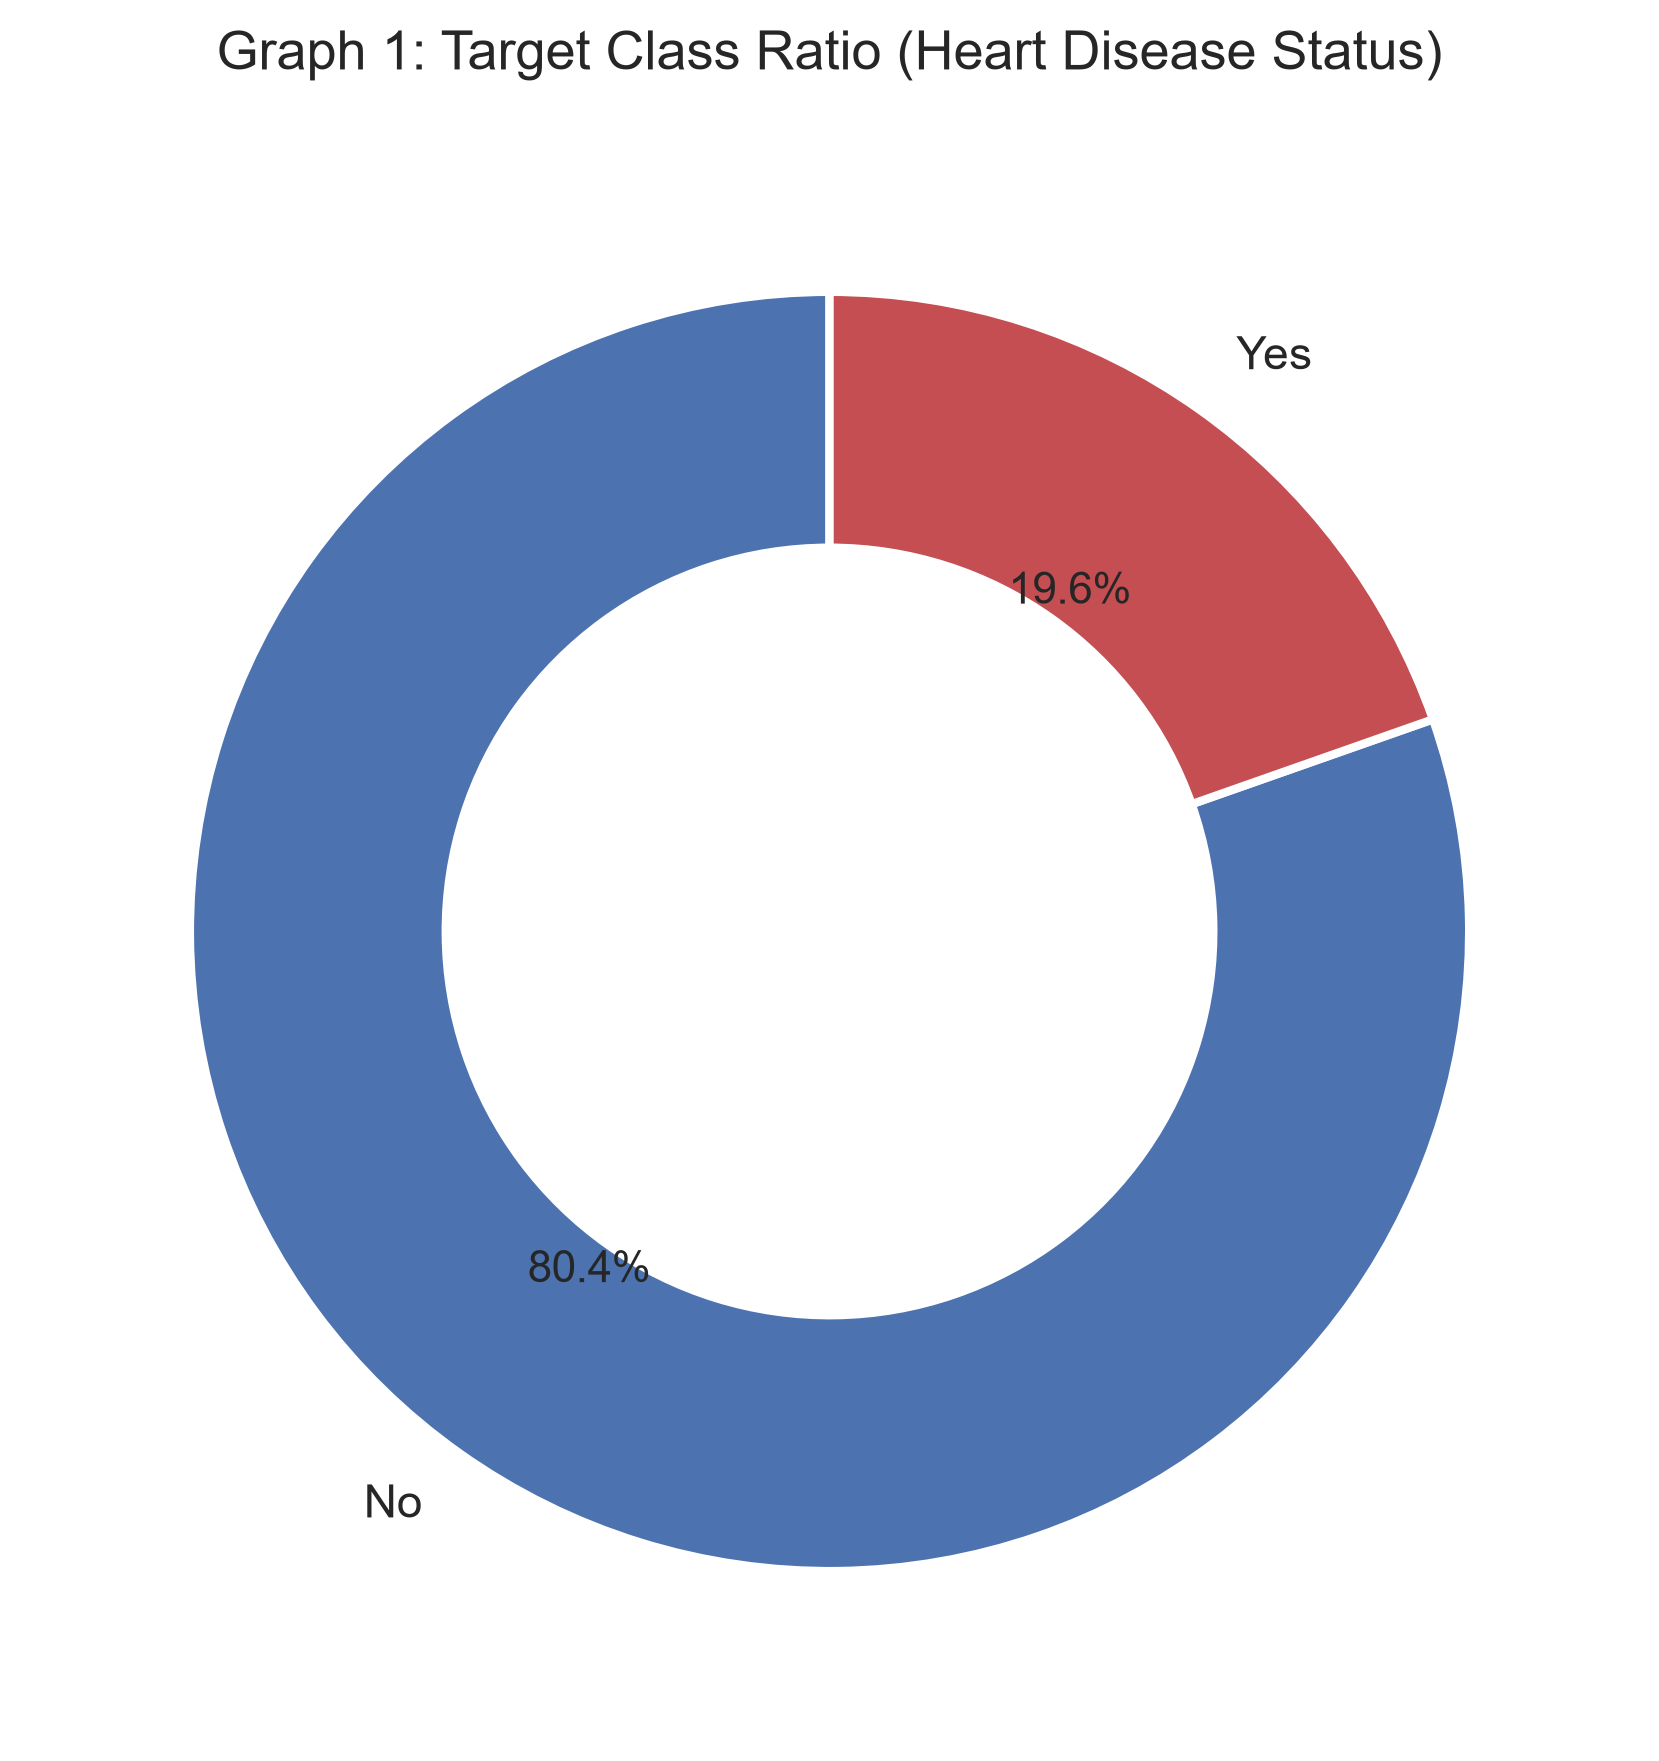
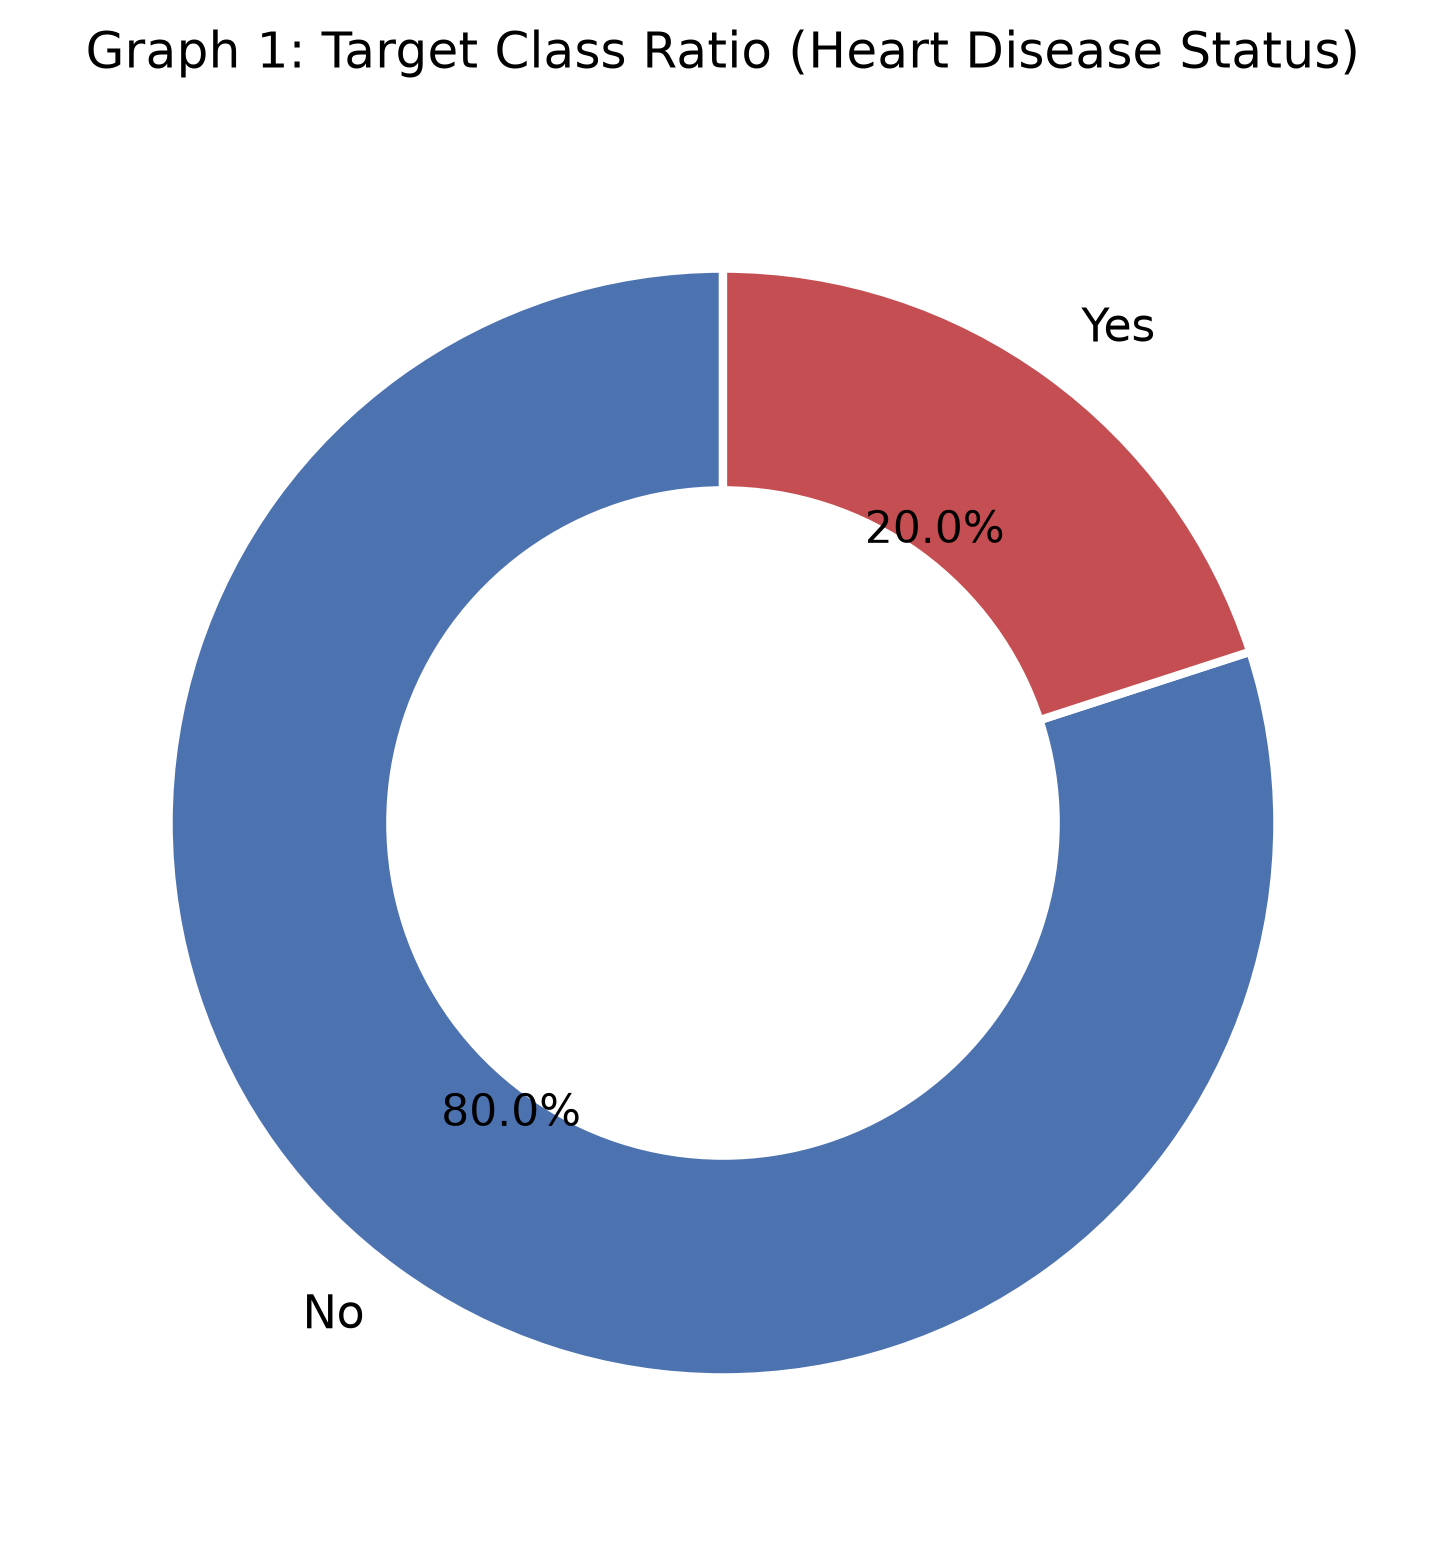
Refactor graph generation script by removing synthetic data creation and adding dataset loading; enhance output with success message.

diff --git a/graph_1_to_4.py b/graph_1_to_4.py
@@ -4,112 +4,12 @@ import numpy as np
 import pandas as pd
 import seaborn as sns
 
+# Load dataset
+df = pd.read_csv("heart_disease_cleaned_full.csv")
+
 # Ensure the "Graph" output folder exists
 output_dir = "Graph"
 os.makedirs(output_dir, exist_ok=True)
-
-# Set global aesthetic theme for publication-quality visuals
-sns.set_theme(style="whitegrid")
-plt.rcParams.update(
-    {
-        "font.size": 11,
-        "axes.titlesize": 13,
-        "axes.labelsize": 11,
-        "xtick.labelsize": 10,
-        "ytick.labelsize": 10,
-        "figure.autolayout": True,
-    }
-)
-
-# STEP 1: GENERATE REALISTIC CLINICAL DATASET
-np.random.seed(42)
-n = 10000
-
-# Target class: 80% No Heart Disease, 20% Yes Heart Disease
-heart_disease = np.random.choice(["No", "Yes"], size=n, p=[0.8, 0.2])
-is_hd = (heart_disease == "Yes").astype(int)
-
-# Synthesize correlated clinical attributes based on medical research
-age = (
-    np.random.normal(loc=46 + 12 * is_hd, scale=11, size=n).clip(18, 80).round()
-)
-cholesterol = (
-    np.random.normal(
-        loc=205 + 40 * is_hd + 0.5 * (age - 45), scale=35, size=n
-    )
-    .clip(130, 380)
-    .round()
-)
-systolic_bp = (
-    np.random.normal(
-        loc=120 + 18 * is_hd + 0.4 * (age - 45), scale=15, size=n
-    )
-    .clip(90, 200)
-    .round()
-)
-bmi = (
-    np.random.normal(
-        loc=25.5 + 4.5 * is_hd + 0.05 * (age - 45), scale=4.5, size=n
-    )
-    .clip(16, 48)
-    .round(1)
-)
-fbs = (
-    np.random.normal(
-        loc=100 + 25 * is_hd + 0.2 * (bmi - 25), scale=20, size=n
-    )
-    .clip(70, 220)
-    .round()
-)
-triglycerides = (
-    np.random.normal(
-        loc=140
-        + 50 * is_hd
-        + 1.2 * (bmi - 25)
-        + 0.3 * (cholesterol - 200),
-        scale=45,
-        size=n,
-    )
-    .clip(70, 450)
-    .round()
-)
-crp = (
-    np.random.normal(
-        loc=1.8 + 3.5 * is_hd + 0.08 * (bmi - 25), scale=1.5, size=n
-    )
-    .clip(0.1, 15.0)
-    .round(2)
-)
-homocysteine = (
-    np.random.normal(
-        loc=9.5 + 4.0 * is_hd + 0.05 * (age - 45), scale=2.5, size=n
-    )
-    .clip(3.0, 25.0)
-    .round(2)
-)
-sleep_hours = (
-    np.random.normal(loc=7.2 - 0.8 * is_hd, scale=1.1, size=n)
-    .clip(3.0, 10.0)
-    .round(1)
-)
-
-# Save updated dataset
-df = pd.DataFrame(
-    {
-        "Age": age,
-        "Blood Pressure": systolic_bp,
-        "Cholesterol Level": cholesterol,
-        "BMI": bmi,
-        "Sleep Hours": sleep_hours,
-        "Triglyceride Level": triglycerides,
-        "Fasting Blood Sugar": fbs,
-        "CRP Level": crp,
-        "Homocysteine Level": homocysteine,
-        "Heart Disease Status": heart_disease,
-    }
-)
-df.to_csv("heart_disease_cleaned_full.csv", index=False)
-
 
 # GRAPH 1: Target Class Ratio (Heart Disease Status - Donut Chart)
 fig, ax = plt.subplots(figsize=(6, 6))
@@ -228,3 +128,5 @@ plt.savefig(
     bbox_inches="tight",
 )
 plt.close()
+
+print("All graphs generated successfully.")
